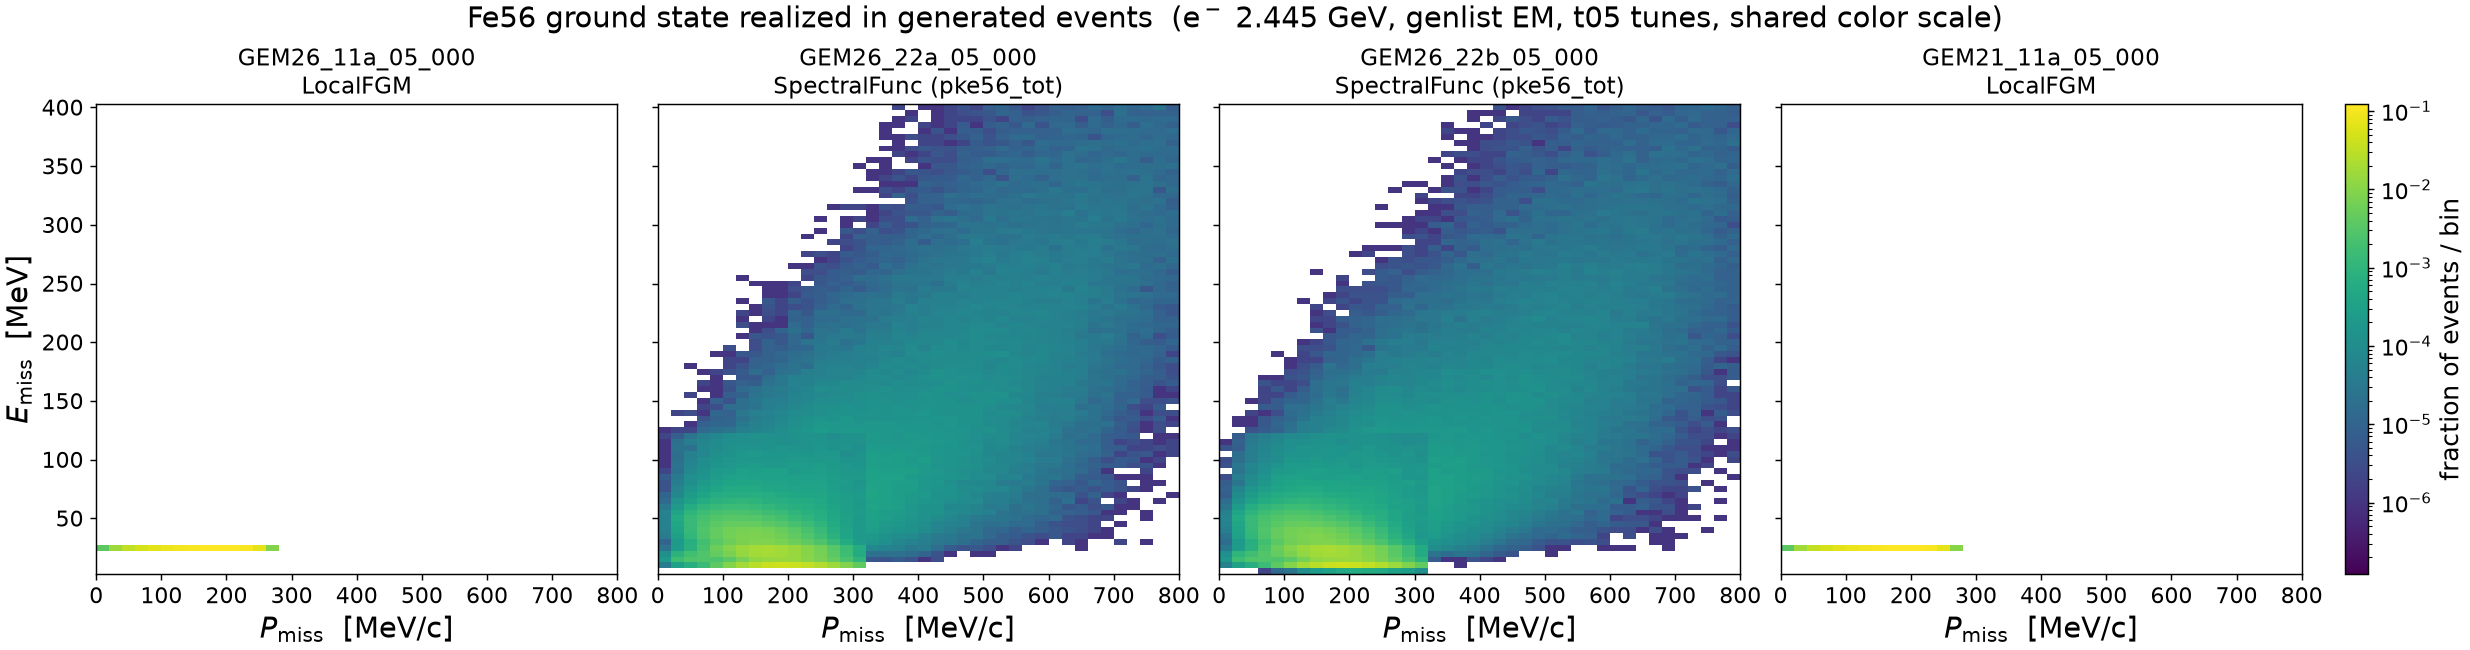
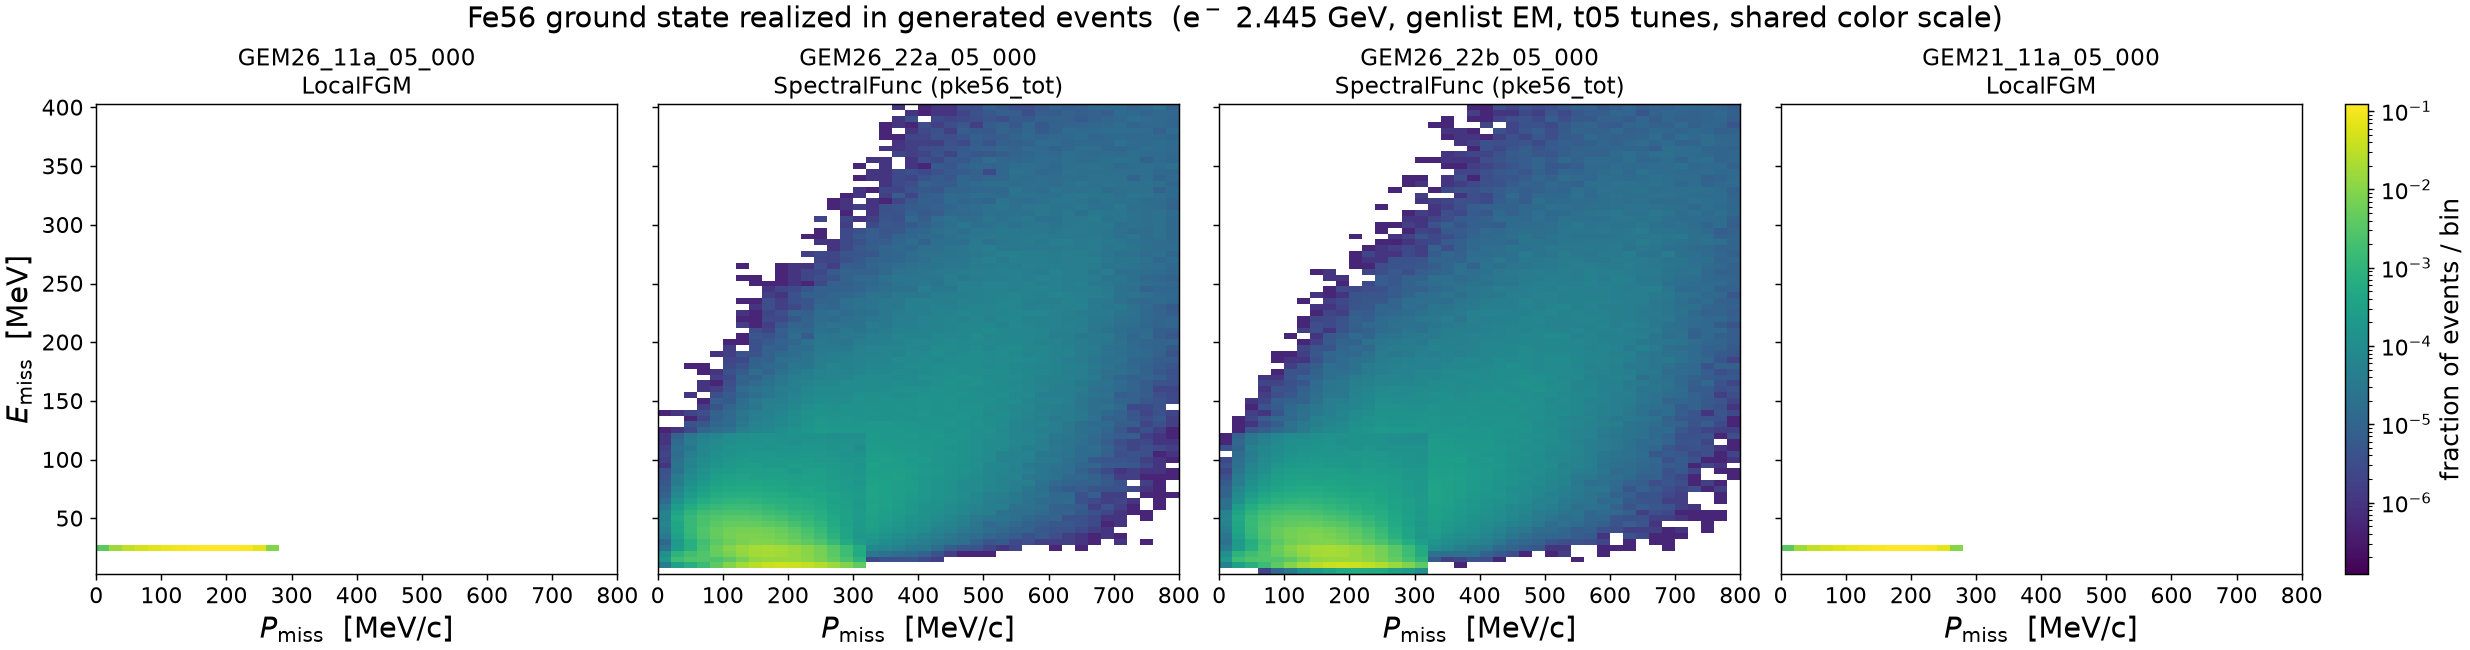
results: Fe56 struck-nucleon 2D section ((p,E_rm) + (p,r)), sections 2-4 -> 3-5
New section 2 in the electron-Fe56 note: the two event-level 2D
distributions the record carries for the struck nucleon, from the ghep
siblings of the ladder streams (2M events/tune):

- (P_miss, E_rm): SF tunes realize the full pke56 table (seam included);
  LFG tunes are a band at the fixed removal energy. New caveat: GEM21's
  QEL events store RemovalEnergy = 0 (QELEventGeneratorSuSA never fills
  it), so its panel is RES/DIS-only.
- (P_miss, r): VertexGenerator samples r ~ r^2 rho(r) identically in all
  tunes and every chain passes r to the nuclear model, but only LocalFGM
  uses it -- both LFG tunes show the k_F(r) wedge (corr = -0.619), both
  SF tunes are exactly factorized (SpectralFunc drops the radius via the
  NuclearModelI base overload).

dump_hitnuc.cxx gains the position column r = |X4| (fm); new
make_struck_pr_fe56.py mirrors the make_sf2d_events.py conventions;
sf2d_events figures regenerated from the re-dumped CSVs.

diff --git a/results/template/make_struck_pr_fe56.py b/results/template/make_struck_pr_fe56.py
@@ -1,0 +1,155 @@
+"""2D struck-nucleon (P_miss, r) — momentum vs in-nucleus radial position, per tune.
+
+Plot 3 of the per-tune ground-state series (plot 1 = make_sf2d_table.py, the
+input table; plot 2 = make_sf2d_events.py, the realized (P_miss, E_rm)): the
+struck-nucleon momentum against the radial position r = |X4| the record carries,
+in the Fe56 full-EM t05 campaign samples (e- 2.445 GeV, genlist EM, grid jobs
+of 2026-07-16).
+
+Why this plot: r is set by VertexGenerator, the momentum by the nuclear model,
+and whether the two are CORRELATED in the record is a chain property — LocalFGM
+ties k_F to the local density k_F(r), but only a generator that hands the
+already-generated vertex radius to `NuclearModel::GenerateNucleon(tgt, r)`
+imprints that correlation on the event; SpectralFunc has no r dependence at
+all. The per-column profile <p>(r) (overlaid) makes the answer visible: flat =
+factorized record, falling = the LFG envelope survived.
+
+Input: the same dump_hitnuc CSVs as plot 2 (pdg,px,py,pz,E,w,scat,r), one per
+tune: <dump-dir>/<tune>.csv.
+
+Outputs:
+  results/prd-analyzer-v0.1/struck_pr_fe56_<tune>.png       one figure per tune
+  results/prd-analyzer-v0.1/struck_pr_fe56_all_t05.png      1x4 comparison, shared color scale
+                                            (only with --all-tunes)
+
+Usage:
+  pixi run python results/template/make_struck_pr_fe56.py --dump-dir <dir>              # 22b
+  pixi run python results/template/make_struck_pr_fe56.py --dump-dir <dir> --all-tunes  # campaign 4
+"""
+import argparse
+import sys
+from pathlib import Path
+
+sys.path.insert(0, "results/template")
+import numpy as np
+from plot_style import (apply_style, FS_LABEL, FS_TITLE, FS_TICK,
+                        FS_SUPTITLE, PANEL_SIZE)    # noqa: E402
+
+REPO = Path(__file__).resolve().parents[2]
+TUNES = ["GEM26_11a_05_000", "GEM26_22a_05_000",
+         "GEM26_22b_05_000", "GEM21_11a_05_000"]
+GROUND_STATE = {                      # active Fe56 model per tune (plot 1)
+    "GEM26_11a_05_000": "LocalFGM",
+    "GEM26_22a_05_000": "SpectralFunc (pke56_tot)",
+    "GEM26_22b_05_000": "SpectralFunc (pke56_tot)",
+    "GEM21_11a_05_000": "LocalFGM",
+}
+
+# momentum on the pke56_tot.data table grid (plots 1-2, comparability);
+# radius: 0.2 fm bins to ~1.6x the Fe56 hard-sphere radius
+P_EDGES = np.linspace(0.0, 800.0, 41)     # momentum [MeV/c], 40 bins
+R_EDGES = np.linspace(0.0, 8.0, 41)       # radius   [fm],    40 bins
+
+
+def load_hist(csv: Path):
+    """CSV from dump_hitnuc -> (H fraction/bin [r, p], profile, counts)."""
+    d = np.genfromtxt(csv, delimiter=",", names=True)
+    p = np.sqrt(d["px"]**2 + d["py"]**2 + d["pz"]**2) * 1000.0   # MeV/c
+    r = d["r"]                                                   # fm
+    H, _, _ = np.histogram2d(r, p, bins=[R_EDGES, P_EDGES])
+    n = len(p)
+    in_range = int(H.sum())
+    H = H / H.sum()
+    # per-radius-column momentum profile <p>(r), on the unbinned p
+    r_ctr = 0.5 * (R_EDGES[:-1] + R_EDGES[1:])
+    idx = np.digitize(r, R_EDGES) - 1
+    prof = np.full(len(r_ctr), np.nan)
+    for i in range(len(r_ctr)):
+        m = idx == i
+        if m.sum() >= 200:            # keep the profile out of empty tails
+            prof[i] = p[m].mean()
+    corr = float(np.corrcoef(p, r)[0, 1])
+    return H, (r_ctr, prof), {"n_kept": n, "in_range": in_range,
+                              "corr": corr, "mean_r": float(r.mean())}
+
+
+def draw_panel(ax, fig, H, prof, norm, add_cbar=True):
+    # orientation: x = missing momentum P_miss (plots 1-2), y = radius r
+    Xe, Ye = np.meshgrid(P_EDGES, R_EDGES, indexing="ij")
+    Zm = np.ma.masked_less_equal(H.T, 0.0)
+    pc = ax.pcolormesh(Xe, Ye, Zm, cmap="viridis", norm=norm)
+    r_ctr, p_of_r = prof
+    ax.plot(p_of_r, r_ctr, "w--", lw=1.8, label=r"$\langle p\rangle(r)$")
+    ax.set_xlabel(r"$P_{\rm miss}$  [MeV/c]", fontsize=FS_LABEL)
+    ax.set_xlim(P_EDGES[0], P_EDGES[-1])
+    ax.tick_params(labelsize=FS_TICK)
+    if add_cbar:
+        cb = fig.colorbar(pc, ax=ax, pad=0.02, fraction=0.046)
+        cb.ax.tick_params(labelsize=FS_TICK)
+    return pc
+
+
+def single_figure(tune, H, prof, c):
+    import matplotlib.pyplot as plt
+    from matplotlib.colors import LogNorm
+    w, h = PANEL_SIZE
+    fig, ax = plt.subplots(figsize=(w * 1.4, h), layout="constrained")
+    norm = LogNorm(vmin=H.max() * 1e-6, vmax=H.max())
+    draw_panel(ax, fig, H, prof, norm)
+    ax.set_ylabel(r"$r$  [fm]", fontsize=FS_LABEL)
+    ax.legend(loc="upper right", fontsize=FS_TICK)
+    ax.set_title(f"N = {c['n_kept']:,} single-nucleon events,  "
+                 f"corr(p, r) = {c['corr']:+.3f}", fontsize=FS_TITLE - 3)
+    fig.suptitle(f"Fe56 struck nucleon: momentum vs sampled position\n"
+                 f"{tune}  ({GROUND_STATE[tune]}),  e$^-$ 2.445 GeV, genlist EM",
+                 fontsize=FS_SUPTITLE - 2)
+    out = REPO / "results" / "prd-analyzer-v0.1" / f"struck_pr_fe56_{tune}.png"
+    fig.savefig(out, dpi=130)
+    print("wrote", out)
+
+
+def combined_figure(results):
+    import matplotlib.pyplot as plt
+    from matplotlib.colors import LogNorm
+    w, h = PANEL_SIZE
+    fig, axes = plt.subplots(1, len(results), figsize=(w * len(results) * 0.95, h),
+                             sharey=True, layout="constrained")
+    vmax = max(H.max() for _, H, _, _ in results)
+    norm = LogNorm(vmin=vmax * 1e-6, vmax=vmax)
+    pc = None
+    for ax, (tune, H, prof, c) in zip(axes, results):
+        pc = draw_panel(ax, fig, H, prof, norm, add_cbar=False)
+        ax.set_title(f"{tune}\n{GROUND_STATE[tune]},  corr = {c['corr']:+.3f}",
+                     fontsize=FS_TITLE - 3)
+    axes[0].set_ylabel(r"$r$  [fm]", fontsize=FS_LABEL)
+    axes[0].legend(loc="upper right", fontsize=FS_TICK)
+    cb = fig.colorbar(pc, ax=axes, pad=0.01, fraction=0.02)
+    cb.set_label("fraction of events / bin", fontsize=FS_TITLE - 2)
+    cb.ax.tick_params(labelsize=FS_TICK)
+    fig.suptitle("Fe56 struck nucleon: momentum vs sampled position  "
+                 "(e$^-$ 2.445 GeV, genlist EM, t05 tunes, shared color scale)",
+                 fontsize=FS_SUPTITLE - 2)
+    out = REPO / "results" / "prd-analyzer-v0.1" / "struck_pr_fe56_all_t05.png"
+    fig.savefig(out, dpi=130)
+    print("wrote", out)
+
+
+if __name__ == "__main__":
+    ap = argparse.ArgumentParser()
+    ap.add_argument("--tune", default="GEM26_22b_05_000", choices=TUNES)
+    ap.add_argument("--dump-dir", required=True,
+                    help="dir with <tune>.csv files from dump_hitnuc")
+    ap.add_argument("--all-tunes", action="store_true")
+    args = ap.parse_args()
+
+    apply_style()
+    tunes = TUNES if args.all_tunes else [args.tune]
+    results = []
+    for t in tunes:
+        H, prof, c = load_hist(Path(args.dump_dir) / f"{t}.csv")
+        print(f"{t}: N={c['n_kept']:,}  in-grid={c['in_range']:,}  "
+              f"corr(p,r)={c['corr']:+.3f}  <r>={c['mean_r']:.2f} fm")
+        single_figure(t, H, prof, c)
+        results.append((t, H, prof, c))
+    if args.all_tunes:
+        combined_figure(results)

diff --git a/results/prd-analyzer-v0.1/electron_fe56_scattering.md b/results/prd-analyzer-v0.1/electron_fe56_scattering.md
@@ -26,11 +26,77 @@ N-nucleon normalization per hit species).
 Grid: 40 P_miss bins [0, 800] MeV/c × 80 E_miss bins [2.5, 402.5] MeV
 (bin centers tabulated; parsed exactly as `SpectralFunc::LoadSFDataFile`).
 GEM26_22b_05_000 resolves to the identical table; GEM26_11a / GEM21_11a use
-LocalFGM (no table). Event-level realization: `sf2d_events_fe56_*.png`.
+LocalFGM (no table). Event-level realization: section 2.
 
 Regenerate: `pixi run python results/template/make_sf2d_table.py --all-tunes`
 
-## 2. Missing energy: table vs simulation vs Dutta Fig. 11
+## 2. Struck nucleon in the record: sampled (P_miss, E_rm) and (P_miss, r)
+
+Two event-level 2D companions to the section-1 table: what the generated
+records actually carry for the struck nucleon — momentum vs **sampled removal
+energy**, and momentum vs **in-nucleus position**. Sample: the ghep siblings of
+the ladder's gst streams (section 3; 20 files = 2M events/tune, 2026-07-16 grid
+campaigns), all single-nucleon events (~1.91M/tune — MEC's 2-nucleon cluster
+carries no single hit nucleon), both species, no other cuts. gst carries
+neither quantity — the sampled w lives only in `GHepParticle::RemovalEnergy`
+and the position only in the hit nucleon's `X4()` — so a compiled GHEP dumper
+(`results/template/dump_hitnuc.cxx`, build recipe in-file, reads the grid files
+over XRootD) writes per-event CSVs `pdg,px,py,pz,E,w,scat,r` that both plots
+read.
+
+![Fe56 ground state realized in generated events, all t05 tunes](sf2d_events_fe56_all_t05.png)
+
+**Momentum vs removal energy** (`sf2d_events_fe56_<tune>.png` per tune, shared
+color scale above): the SF tunes realize the full table — mean-field blob, SRC
+continuum, and the rectangular mean-field/correlation seam of section 1 —
+with realized tail weights P(p > 250 MeV/c) = 0.150/0.143 and
+P(E > 100 MeV) = 0.074/0.068 (22a/22b) vs the table's sampling weights
+0.158/0.080; the residual difference is per-process kinematic acceptance (the
+QEL-only selection of section 4 pulls 22a the *other* way, to 0.185). The LFG
+tunes collapse onto a band at the near-fixed LFG removal energy (median
+w = 23.0 MeV in both) with the sharp k_F cutoff at ≈ 270 MeV/c. **GEM21
+caveat**: its QEL events (17% of the single-nucleon sample, scat = 1) store
+w = 0 exactly — `QELEventGeneratorSuSA` applies its binding prescription
+internally and never fills `RemovalEnergy` — so on this axis the GEM21 panel
+is RES/DIS-only (in-grid 1.585M of 1.907M; the 11a band, by contrast, includes
+QEL via FermiMover).
+
+![Fe56 struck nucleon momentum vs sampled position, all t05 tunes](struck_pr_fe56_all_t05.png)
+
+**Momentum vs position** (`struck_pr_fe56_<tune>.png` per tune; white dashed =
+per-radius profile ⟨p⟩(r)): r is sampled once per event by `VertexGenerator`
+(Module-1 of every generator thread) from r²ρ(r) — identical ⟨r⟩ = 3.6 fm in
+all four tunes — and every chain then hands r = |X4| to the nuclear model
+(`FermiMover.cxx:124`, `QELEventGenerator.cxx:158`,
+`QELEventGeneratorSuSA.cxx:437`). Whether the radius *does* anything is purely
+a nuclear-model property:
+
+| tune | ground state | corr(p, r) | P(p > 250 MeV/c) |
+|---|---|---|---|
+| GEM26_11a_05_000 | LocalFGM | −0.619 | 0.009 |
+| GEM26_22a_05_000 | 2D SF | −0.000 | 0.150 |
+| GEM26_22b_05_000 | 2D SF | −0.000 | 0.143 |
+| GEM21_11a_05_000 | LocalFGM | −0.619 | 0.010 |
+
+- **LFG tunes: the k_F(r) envelope survives into the record.** The wedge with
+  its falling ⟨p⟩(r) (corr = −0.619, identical to 3 decimals in 11a and GEM21):
+  `LocalFGM::ProbDistro(target, r)` builds the momentum distribution from the
+  local density at the vertex, so high-p nucleons start preferentially central
+  — the longest FSI paths for exactly the events nearest the Fermi surface.
+- **SF tunes: exactly factorized** (corr = −0.000, flat profile).
+  `SpectralFunc` implements only `GenerateNucleon(target)`; the radius the
+  chain passes is dropped by the `NuclearModelI` base overload. The sampled
+  (p, E) — SRC tail included — is statistically independent of the starting
+  radius: a 600 MeV/c SRC nucleon draws the same r distribution as a
+  shell-model one, worth keeping in mind when reading the FSI in-window
+  survival of section 3.
+
+Regenerate: build `dump_hitnuc` (recipe in `results/template/dump_hitnuc.cxx`),
+dump the same 20-file lists to `cache/hitnuc_fe56/<tune>.csv`, then
+`pixi run python results/template/make_sf2d_events.py --dump-dir results/prd-analyzer-v0.1/cache/hitnuc_fe56 --all-tunes`
+and the same for `make_struck_pr_fe56.py`.
+
+## 3. Missing energy: table vs simulation vs Dutta Fig. 11
 
 The C12 four-stage **restored ladder** (v0 README §12) replicated on Fe56 for
 each campaign tune, at the digitized data's kinematics (Q² = 1.28 (GeV/c)²,
@@ -66,7 +132,7 @@ an in-window statement — its record sits entirely below E = 0). FSI keeps only
 `pixi run python results/template/make_emiss_ladder_fe56.py --all-tunes`
 (cache: `cache/ladder_fe56/`; delete to re-stream).
 
-### 2.1 GEM26_11a_05_000 — LocalFGM + Rosenbluth
+### 3.1 GEM26_11a_05_000 — LocalFGM + Rosenbluth
 
 | piece | algorithm |
 |---|---|
@@ -83,7 +149,7 @@ never exceed 300 MeV/c). The pre-FSI proton reproduces the δ; FSI smears it
 into a shape that tracks the data tail but, as everywhere, misses the
 12.5 MeV peak from below.
 
-### 2.2 GEM26_22a_05_000 — 2D SpectralFunc + Rosenbluth (FermiMover chain)
+### 3.2 GEM26_22a_05_000 — 2D SpectralFunc + Rosenbluth (FermiMover chain)
 
 | piece | algorithm |
 |---|---|
@@ -101,7 +167,7 @@ the sampled physics survives only in `GHepParticle::RemovalEnergy`, section 1).
 I2r = I3r = 23.423; FSI in-window survival 0.384 with the post-FSI shape
 tracking the data above ~20 MeV.
 
-### 2.3 GEM26_22b_05_000 — 2D SpectralFunc + UnifiedQEL (QELEventGenerator)
+### 3.3 GEM26_22b_05_000 — 2D SpectralFunc + UnifiedQEL (QELEventGenerator)
 
 | piece | algorithm |
 |---|---|
@@ -130,7 +196,7 @@ closest in shape to the data. QEL fraction is 9.3% vs 22a's 12.7%,
 consistent with the SF-folded UnifiedQEL cross section being smaller than
 Rosenbluth (spline QE σ 1.85 vs 2.75 ×10⁻⁴).
 
-### 2.4 GEM21_11a_05_000 — LocalFGM + SuSAv2 (scaled-C12 surrogate)
+### 3.4 GEM21_11a_05_000 — LocalFGM + SuSAv2 (scaled-C12 surrogate)
 
 | piece | algorithm |
 |---|---|
@@ -147,7 +213,7 @@ box-like distribution up to ~35 MeV (LFG kinematics through SuSA's own
 binding prescription), and FSI degrades it further. The scaled-C12 surrogate
 caveat applies to any physics conclusion drawn from this tune on iron.
 
-## 3. Missing momentum: table vs QEL struck-nucleon record
+## 4. Missing momentum: table vs QEL struck-nucleon record
 
 ![Fe56 P_miss, input table vs QEL struck-nucleon record, all t05 tunes](pmiss_struck_fe56_t05.png)
 
@@ -184,7 +250,7 @@ Reading:
 Regenerate: `pixi run python results/template/make_pmiss_fe56.py`
 (reads the `cache/ladder_fe56/` caches).
 
-## 4. Signed missing momentum (± asymmetry)
+## 5. Signed missing momentum (± asymmetry)
 
 The published Figs. 6–8 momentum distributions carry a left–right (±p_m)
 asymmetry the paper attributes to W_LT interference beyond deForest σ_cc1
@@ -222,7 +288,7 @@ it; the SuSA generator samples symmetrically and gives zero. Whatever the true
 W_LT/Coulomb asymmetry of the data is, it would sit *on top of* this
 generator artifact — so the signed p_m is not yet a clean model discriminator.
 
-### 4.1 GEM26_11a_05_000 — LocalFGM, QELKinematicsGenerator
+### 5.1 GEM26_11a_05_000 — LocalFGM, QELKinematicsGenerator
 
 ![Fe56 signed p_m, GEM26_11a_05_000](pmiss_signed_fe56_GEM26_11a_05_000.png)
 
@@ -230,7 +296,7 @@ A = −0.047 (pre) → −0.037 (post): the classic FermiMover +
 `QELKinematicsGenerator` chain on a Fermi-gas ground state. A(|p|) grows to
 ≈ −7% at 300 MeV/c; FSI slightly *reduces* the magnitude.
 
-### 4.2 GEM26_22a_05_000 — 2D SpectralFunc, QELKinematicsGenerator
+### 5.2 GEM26_22a_05_000 — 2D SpectralFunc, QELKinematicsGenerator
 
 ![Fe56 signed p_m, GEM26_22a_05_000](pmiss_signed_fe56_GEM26_22a_05_000.png)
 
@@ -239,7 +305,7 @@ ground state — the near-identical asymmetry (−0.047 vs −0.055) shows the
 ground-state model is a minor lever compared to the generator. The post-FSI
 density tracks the symmetrized fig7 shape closely.
 
-### 4.3 GEM26_22b_05_000 — 2D SpectralFunc, QELEventGenerator
+### 5.3 GEM26_22b_05_000 — 2D SpectralFunc, QELEventGenerator
 
 ![Fe56 signed p_m, GEM26_22b_05_000](pmiss_signed_fe56_GEM26_22b_05_000.png)
 
@@ -251,7 +317,7 @@ cross section, which imprints a much stronger direction–acceptance
 correlation. This is the tune where the signed p_m most departs from the
 others.
 
-### 4.4 GEM21_11a_05_000 — LocalFGM, QELEventGeneratorSuSA
+### 5.4 GEM21_11a_05_000 — LocalFGM, QELEventGeneratorSuSA
 
 ![Fe56 signed p_m, GEM21_11a_05_000](pmiss_signed_fe56_GEM21_11a_05_000.png)
 
